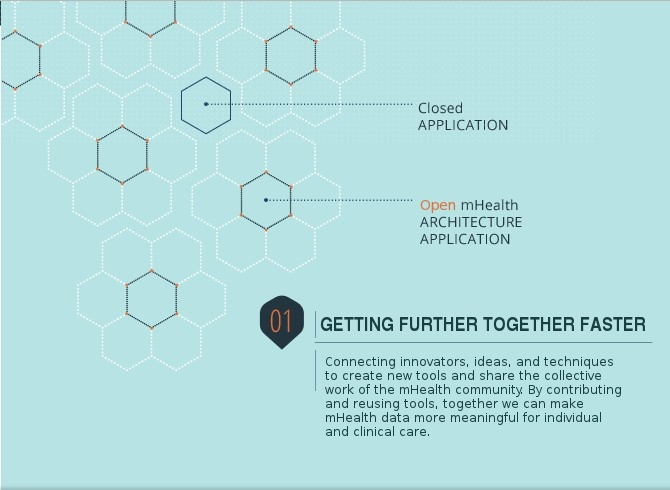
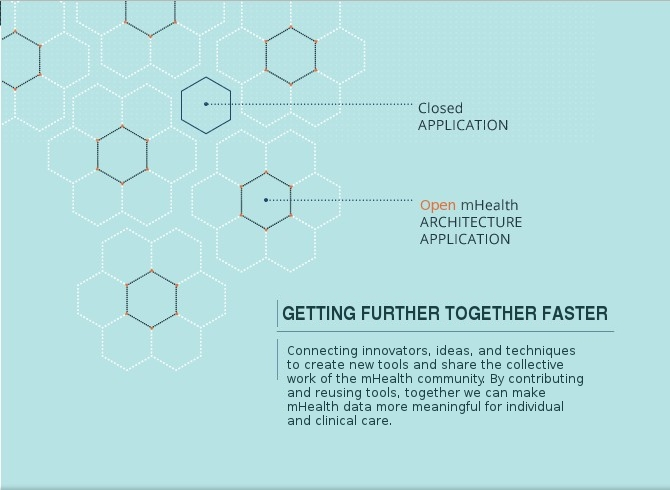
Pre launch commit with some cosmetic and semi-footer changes

Changed region(s): [[0.3881, 0.5816, 0.9851, 0.8878]]

diff --git a/wp-content/themes/omh-theme/style.css b/wp-content/themes/omh-theme/style.css
@@ -3274,7 +3274,7 @@ footer #menu-main-menu-1 li.menu-item-35 .sub-menu li a{
   width: 600px;
 }
 
-#content h1{
+.home #content h1{
   font-size: 30px;
   font-weight: bold;
   margin-bottom: 12px;

diff --git a/wp-content/themes/omh-theme/category-7.php b/wp-content/themes/omh-theme/category-7.php
@@ -15,7 +15,9 @@ get_header();
     <?php if (have_posts()) : ?>
 
       <header class="page-header">
-        <h1 class="entry-title">Contributors</h1>
+        <h1 class="page-title"><?php
+    printf(__('Category Archives: %s', 'twentyeleven'), '<span>' . single_cat_title('', false) . '</span>');
+      ?></h1>
 
         <?php
         $category_description = category_description();
@@ -26,36 +28,27 @@ get_header();
 
       <?php twentyeleven_content_nav('nav-above'); ?>
 
+    <h1 class="entry-title">Our Contributors</h1>
+    <br/>
       <?php /* Start the Loop */ ?>
-      <ul class="appsProjects">
       <?php while (have_posts()) : the_post(); ?>
-        <?php //while ($my_query->have_posts()) : $my_query->the_post(); ?>
 
-          <li>
-            <div class="postThumbnail">
-              <a href="<?php the_permalink(); ?>">    
-                <?php the_post_thumbnail('medium'); ?>
-              </a>
-            </div>
+        <div>
+          <div class="postThumbnail">
+            <a href="<?php the_permalink(); ?>">    
+              <?php the_post_thumbnail('medium'); ?>
+            </a>
+          </div>
 
-            <div class="title">
-              <a href="<?php the_permalink(); ?>"><?php the_title(); ?></a>
-            </div>
-            <div class="description">
-              <?php the_excerpt(); ?>
-            </div>
-          </li>
+          <div class="title">
+            <a href="<?php the_permalink(); ?>"><?php the_title(); ?></a>
+          </div>
+          <div class="description">
+            <?php the_excerpt(); ?>
+          </div>
+        </div>
 
-          <?php
-          /* Include the Post-Format-specific template for the content.
-           * If you want to overload this in a child theme then include a file
-           * called content-___.php (where ___ is the Post Format name) and that will be used instead.
-           */
-          //get_template_part('content', get_post_format());
-          ?>
-
-        <?php endwhile; ?>
-      </ul>
+      <?php endwhile; ?>
 
       <?php twentyeleven_content_nav('nav-below'); ?>
 
@@ -79,7 +72,7 @@ get_header();
 
 <?php // get_sidebar(); ?>
 <div class="semiFooterRow">
-  <?php the_widget('omh_latest_posts'); ?> 
-  <a class="meet" href="/category/uncategorized/">more posts</a>
+  <?php the_widget('semiFooterWidget', 'cat=13&title=Blog Articles'); ?> 
+  <a class="meet" href="/category/blog/">more articles</a>
 </div>
 <?php get_footer(); ?>

diff --git a/wp-content/themes/omh-theme/single.php b/wp-content/themes/omh-theme/single.php
@@ -25,8 +25,8 @@ get_header();
 
       <nav id="nav-single">
         <h3 class="assistive-text"><?php _e('Post navigation', 'twentyeleven'); ?></h3>
-        <span class="nav-previous"><?php previous_post_link('%link', '&laquo; Previous', TRUE);//previous_post_link('%link', __('<span class="meta-nav">&larr;</span> Previous', 'twentyeleven')); ?></span>
-        <span class="nav-next"><?php  next_post_link('%link', 'Next &raquo;', TRUE); //next_post_link('%link', __('Next <span class="meta-nav">&rarr;</span>', 'twentyeleven')); ?></span>
+        <span class="nav-previous"><?php previous_post_link('%link', '&laquo; Previous', TRUE); //previous_post_link('%link', __('<span class="meta-nav">&larr;</span> Previous', 'twentyeleven'));  ?></span>
+        <span class="nav-next"><?php next_post_link('%link', 'Next &raquo;', TRUE); //next_post_link('%link', __('Next <span class="meta-nav">&rarr;</span>', 'twentyeleven'));  ?></span>
       </nav><!-- #nav-single -->
 
       <?php get_template_part('content', 'single'); ?>
@@ -45,11 +45,11 @@ get_header();
   <?php
   ?>
   <?php if (in_array(7, $cats)): ?> 
-  <?php the_widget('semiFooterWidget', 'cat=13&title=Blog Entries'); ?> 
-    <a class="meet" href="/category/blog/">more posts</a>
+    <?php the_widget('semiFooterWidget', 'cat=13&title=Blog Atrivles'); ?> 
+    <a class="meet" href="/category/blog/">more articles</a>
   <?php else: ?>
-  <?php the_widget('semiFooterWidget', 'cat=7&title=Our Contributors'); ?> 
-  <a class="meet" href="/category/contributors/">meet more of our contributors</a>
+    <?php the_widget('semiFooterWidget', 'cat=7&title=Our Contributors'); ?> 
+    <a class="meet" href="/category/contributor/">meet more of our contributors</a>
   <?php endif; ?>
 </div>
 

diff --git a/wp-content/themes/omh-theme/explore.php b/wp-content/themes/omh-theme/explore.php
@@ -85,6 +85,6 @@ get_header();
 
 <div class="semiFooterRow">
   <?php the_widget('semiFooterWidget', 'cat=7&title=Our Contributors'); ?> 
-  <a class="meet" href="/category/contributors/">meet more of our contributors</a>
+  <a class="meet" href="/category/contributor/">meet more of our contributors</a>
 </div>
 <?php get_footer(); ?>

diff --git a/wp-content/themes/omh-theme/category-13.php b/wp-content/themes/omh-theme/category-13.php
@@ -28,7 +28,8 @@ get_header();
 
       <?php twentyeleven_content_nav('nav-above'); ?>
 
-    <h1>The Blog</h1>
+    <h1 class="entry-title">The Blog</h1>
+    <br/>
       <?php /* Start the Loop */ ?>
       <?php while (have_posts()) : the_post(); ?>
 
